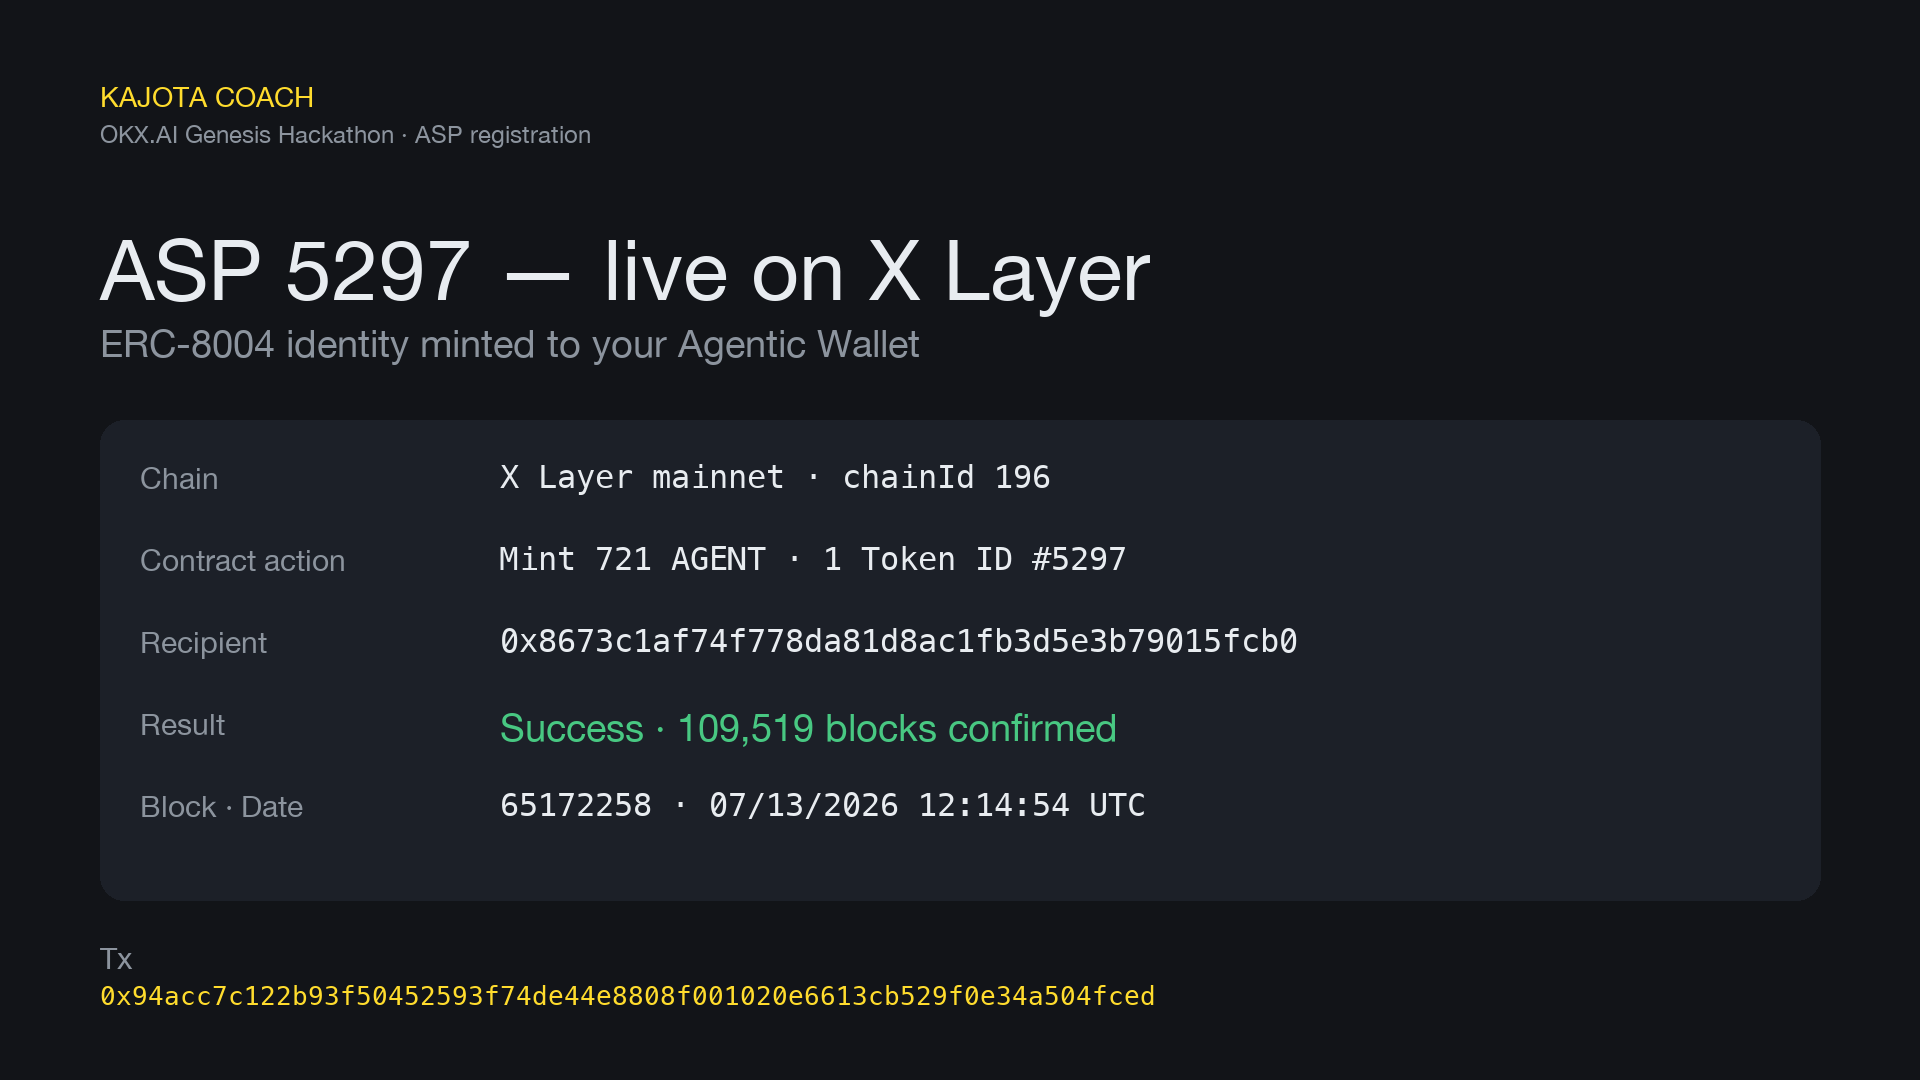
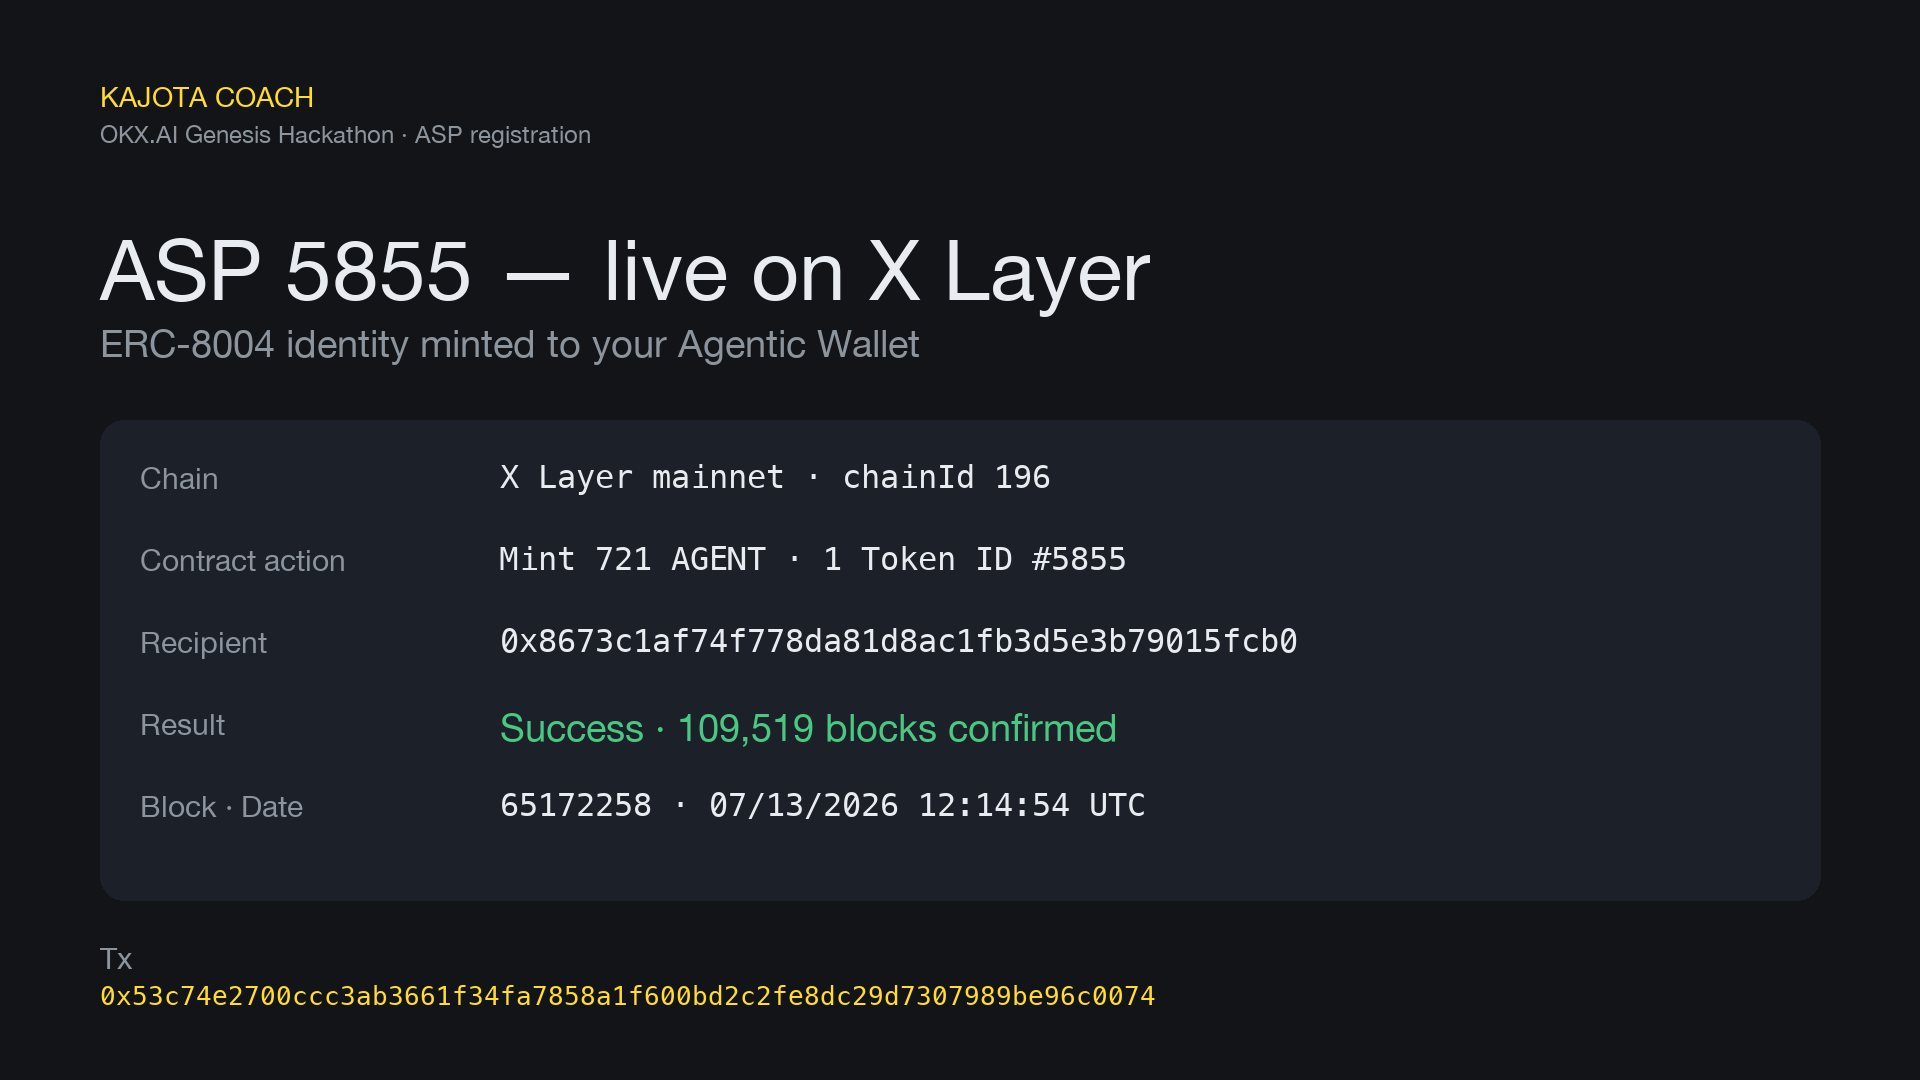
feat(okx): re-register as ASP 5855 with hub URL from day one
Backend-index bug orphaned ASP 5297 (all write ops returned code 81001
after the wallet rotated during okx-a2a doctor restart). Registered a
fresh identity ASP 5855 with the same name/description/services but
hub URL wired from the start:

- new agent id: 5855
- new wallet: 0x7876c479f68b7f218ca59a4b8c860a4a06350007 (OKX Agentic
  Wallet rotates per session — logout+relogin mints fresh)
- registration tx: 0x53c74e2700ccc3ab3661f34fa7858a1f600bd2c2fe8dc29d7307989be96c0074
- A2MCP endpoint: https://kajota-hub.onrender.com/coach-okx/coach/premium
- Both services present (A2A escrow + A2MCP paid insight), submitted for review

Docs + demo assets refreshed:
- SUBMISSION_OKX.md, asp-manifest.json, OKX_SETUP.md, DEMO_STORYBOARD.md,
  submission-answers.md, vo-script.md, README.md all point at 5855 + hub URL
- captions.srt + build_captions.py regenerated caption strips with "ASP #5855"
- build_beats.py regenerated Beat 1 slide with new tx hash + agent id
- beat4_asp_identity.tape regenerated vhs terminal with agent-ids 5855
- demo-okx-genesis.mp4 re-stitched — 78.14 s (unchanged from previous cut)

asp-manifest.json keeps endpoint_previous pointing at the retired
standalone URLs for archival visibility.

ASP 5297 is stranded but harmless — still exists on-chain, we just
don't cite it anymore in submission materials.

Changed region(s): [[0.0625, 0.9167, 0.5938, 0.9472], [0.1562, 0.2139, 0.25, 0.275], [0.5625, 0.4889, 0.5938, 0.5194]]

diff --git a/demo/build_beats.py b/demo/build_beats.py
@@ -3,7 +3,7 @@
 ffmpeg.
 
 Every fact on Beat 1 is a verbatim copy of what OKLink X Layer explorer
-showed for tx 0x94acc7c1...4fced (captured Jul 14 2026). Every code
+showed for tx 0x53c74e27…c0074 (captured Jul 14 2026). Every code
 snippet on Beat 3 comes verbatim from agent/kajota_concierge/x402_xlayer.py
 so a judge who wants to verify can grep the repo.
 
@@ -73,14 +73,14 @@ def beat1() -> None:
     _text(d, (100, 120), "OKX.AI Genesis Hackathon · ASP registration", font=small_font, fill=DIM)
 
     # Title
-    _text(d, (100, 220), "ASP 5297 — live on X Layer", font=title_font, fill=FG)
+    _text(d, (100, 220), "ASP 5855 — live on X Layer", font=title_font, fill=FG)
     _text(d, (100, 320), "ERC-8004 identity minted to your Agentic Wallet", font=sub_font, fill=DIM)
 
     # Fact panel
     _panel(d, (100, 420, W - 100, 900))
     rows = [
         ("Chain", "X Layer mainnet · chainId 196"),
-        ("Contract action", "Mint 721 AGENT · 1 Token ID #5297"),
+        ("Contract action", "Mint 721 AGENT · 1 Token ID #5855"),
         ("Recipient", "0x8673c1af74f778da81d8ac1fb3d5e3b79015fcb0"),
         ("Result", "Success · 109,519 blocks confirmed"),
         ("Block · Date", "65172258 · 07/13/2026 12:14:54 UTC"),
@@ -94,7 +94,7 @@ def beat1() -> None:
 
     # Tx hash callout
     _text(d, (100, 940), "Tx", font=label_font, fill=DIM)
[2 lines of base64/hex data omitted]
           font=_font(26, mono=True), fill=ACCENT)
 
     out = HERE / "beat1_marketplace.png"

diff --git a/demo/build_captions.py b/demo/build_captions.py
@@ -77,7 +77,7 @@ def render_caption(text: str, out_path: Path) -> None:
 
 
 CAPTIONS = [
-    ("caption1.png", "ASP #5297  ·  XLayer mainnet"),
+    ("caption1.png", "ASP #5855  ·  XLayer mainnet"),
     ("caption2.png", "402 Payment Required  ·  self-documenting price tag"),
     ("caption3.png", "Settlement on XLayer  ·  EIP-3009 authorization  ·  no wallet popup"),
     ("caption4.png", "github.com/KaJota-inc/kajota-coach  ·  #OKXAI"),

diff --git a/demo/submission-answers.md b/demo/submission-answers.md
@@ -27,8 +27,8 @@ Kajota Coach
 ### ASP identity (agent id + chain)
 
 ```
-Agent ID 5297 on X Layer mainnet (chainIndex 196). Registered via
-onchainos agent create, tx 0x94acc7c122b93f50452593f74de44e8808f001020e6613cb529f0e34a504fced.
+Agent ID 5855 on X Layer mainnet (chainIndex 196). Registered via
+onchainos agent create, tx 0x53c74e2700ccc3ab3661f34fa7858a1f600bd2c2fe8dc29d7307989be96c0074.
 ```
 
 ### ASP category / track
@@ -64,7 +64,7 @@ https://github.com/KaJota-inc/kajota-coach/tree/hackathon/okx-asp
 ### One-sentence description
 
 ```
-An AI shopping concierge listed on OKX.AI as ASP 5297 that pays for its
+An AI shopping concierge listed on OKX.AI as ASP 5855 that pays for its
 own premium work with HTTP-native micropayments settled on X Layer —
 and escrows real trades on-chain for A2A deals larger than a coffee.
 ```
@@ -92,7 +92,7 @@ Attach the video to Tweet 3 (native upload gives the best autoplay).
 ### Tweet 1 — Intro (260 chars)
 
 ```
-Kajota Coach is live on OKX.AI as ASP 5297 — an Agent Service Provider that answers your shopping questions and pays for its own premium work.
+Kajota Coach is live on OKX.AI as ASP 5855 — an Agent Service Provider that answers your shopping questions and pays for its own premium work.
 
 Every call settles a $0.01 USDC micropayment on X Layer. No wallet popup. No human sign-off.
 
@@ -136,8 +136,8 @@ Judges — every on-chain claim resolves on OKLink X Layer. Full runbook at gith
 - [ ] `demo-okx-genesis.mp4` under 90.000 seconds (stitch.sh gate)
 - [ ] Video plays without login (unlisted YouTube fine; private is not)
 - [ ] `curl -s https://kajota-hub.onrender.com/coach-okx/coach/premium | jq '.accepts[0].network'` still returns `"eip155:195"`
-- [ ] `onchainos agent get-agents --agent-ids 5297` shows the ASP present and not deactivated
+- [ ] `onchainos agent get-agents --agent-ids 5855` shows the ASP present and not deactivated
 - [ ] X thread posted, all four tweets showing, Tweet 3 has video
 - [ ] Google Form filled with real URLs (not `{VIDEO_URL}` placeholders)
 - [ ] Form submitted before Jul 17 22:59 UTC
-- [ ] OKX internal review has responded on ASP 5297 (or if pending, submission still counts as long as the ASP endpoint is publicly reachable)
+- [ ] OKX internal review has responded on ASP 5855 (or if pending, submission still counts as long as the ASP endpoint is publicly reachable)

diff --git a/demo/vo-script.md b/demo/vo-script.md
@@ -54,10 +54,10 @@ start time. `stitch.sh` reads it to align caption pops.
 
 | Time | Text | Position | Style |
 |---|---|---|---|
-| 0:03–0:19 | ASP 5297 · XLayer mainnet | Lower-third | Regular |
+| 0:03–0:19 | ASP 5855 · XLayer mainnet | Lower-third | Regular |
 | 0:23–0:41 | 402 Payment Required · self-documenting price tag | Lower-third | Regular |
 | 0:45–1:11 | Settlement: XLayer · EIP-3009 authorization · no wallet popup | Lower-third | Regular |
-| 1:00–1:11 | tx: 0x94acc7c1…4fced *(placeholder — swap for real payment tx once facilitator wired)* | Center-top | Monospace |
+| 1:00–1:11 | tx: 0x53c74e27…c0074 *(placeholder — swap for real payment tx once facilitator wired)* | Center-top | Monospace |
 | 1:13–1:27 | KajotaInc/kajota-coach · #OKXAI | Center-bottom | Regular |
 
 ---
@@ -65,6 +65,6 @@ start time. `stitch.sh` reads it to align caption pops.
 ## Recording sanity checks before you record
 
 - [ ] Coach `/coach/premium` returns 402 with `network: eip155:195` — `curl -s https://kajota-hub.onrender.com/coach-okx/coach/premium | jq '.accepts[0].network'`
-- [ ] `onchainos agent get-agents --agent-ids 5297` shows `approvalLabel: "Listing under review"` — if it's changed to "approved", pivot Beat 4 to show the public marketplace search result instead
[1 lines of base64/hex data omitted]
+- [ ] `onchainos agent get-agents --agent-ids 5855` shows `approvalLabel: "Listing under review"` — if it's changed to "approved", pivot Beat 4 to show the public marketplace search result instead
[1 lines of base64/hex data omitted]
 - [ ] All four beat MP4s exist (`beat1_marketplace.mp4`, `beat2_402_challenge.mp4`, `beat3_settlement.mp4`, `beat4_asp_identity.mp4`) — see `stitch.sh` for expected filenames

diff --git a/demo/README.md b/demo/README.md
@@ -9,7 +9,7 @@ Genesis Hackathon (Jul 8–17, 2026).
 |---|---|
 | `vo-script.md` | 86-second voice-over script, 4 beats, with on-screen text overlay cues and recording sanity checks |
 | `beat2_402_challenge.tape` | `vhs` script for Beat 2 — terminal shows `curl` of `/coach/premium` returning the 402 challenge with `eip155:195` |
-| `beat4_asp_identity.tape` | `vhs` script for Beat 4 — terminal shows `onchainos agent get-agents --agent-ids 5297` output |
+| `beat4_asp_identity.tape` | `vhs` script for Beat 4 — terminal shows `onchainos agent get-agents --agent-ids 5855` output |
 | `stitch.sh` | Concatenates the four beat clips + VO, normalizes to 1080p / 30fps / H.264, verifies duration ≤ 90s |
 | `beat*.mp4` | Rendered beat clips (dropped in here after you record or render them) |
 | `vo-raw.wav` | Voice-over recording (produced by you per vo-script.md) |
@@ -26,7 +26,7 @@ Genesis Hackathon (Jul 8–17, 2026).
    ```
 
 2. **Screen-capture the two visual beats** yourself (macOS: `⌘⇧5` or `simctl io booted recordVideo`):
-   - `beat1_marketplace.mp4` — OKX.AI marketplace / OKLink XLayer explorer showing ASP 5297
+   - `beat1_marketplace.mp4` — OKX.AI marketplace / OKLink XLayer explorer showing ASP 5855
    - `beat3_settlement.mp4` — code + signing flow (fallback: read the vo-script section 3 verbatim over a static "flow diagram" slide)
 
 3. **Record the voice-over** (`vo-raw.wav`) reading `vo-script.md` at conversational pace. QuickTime → Audio Only → export as WAV.